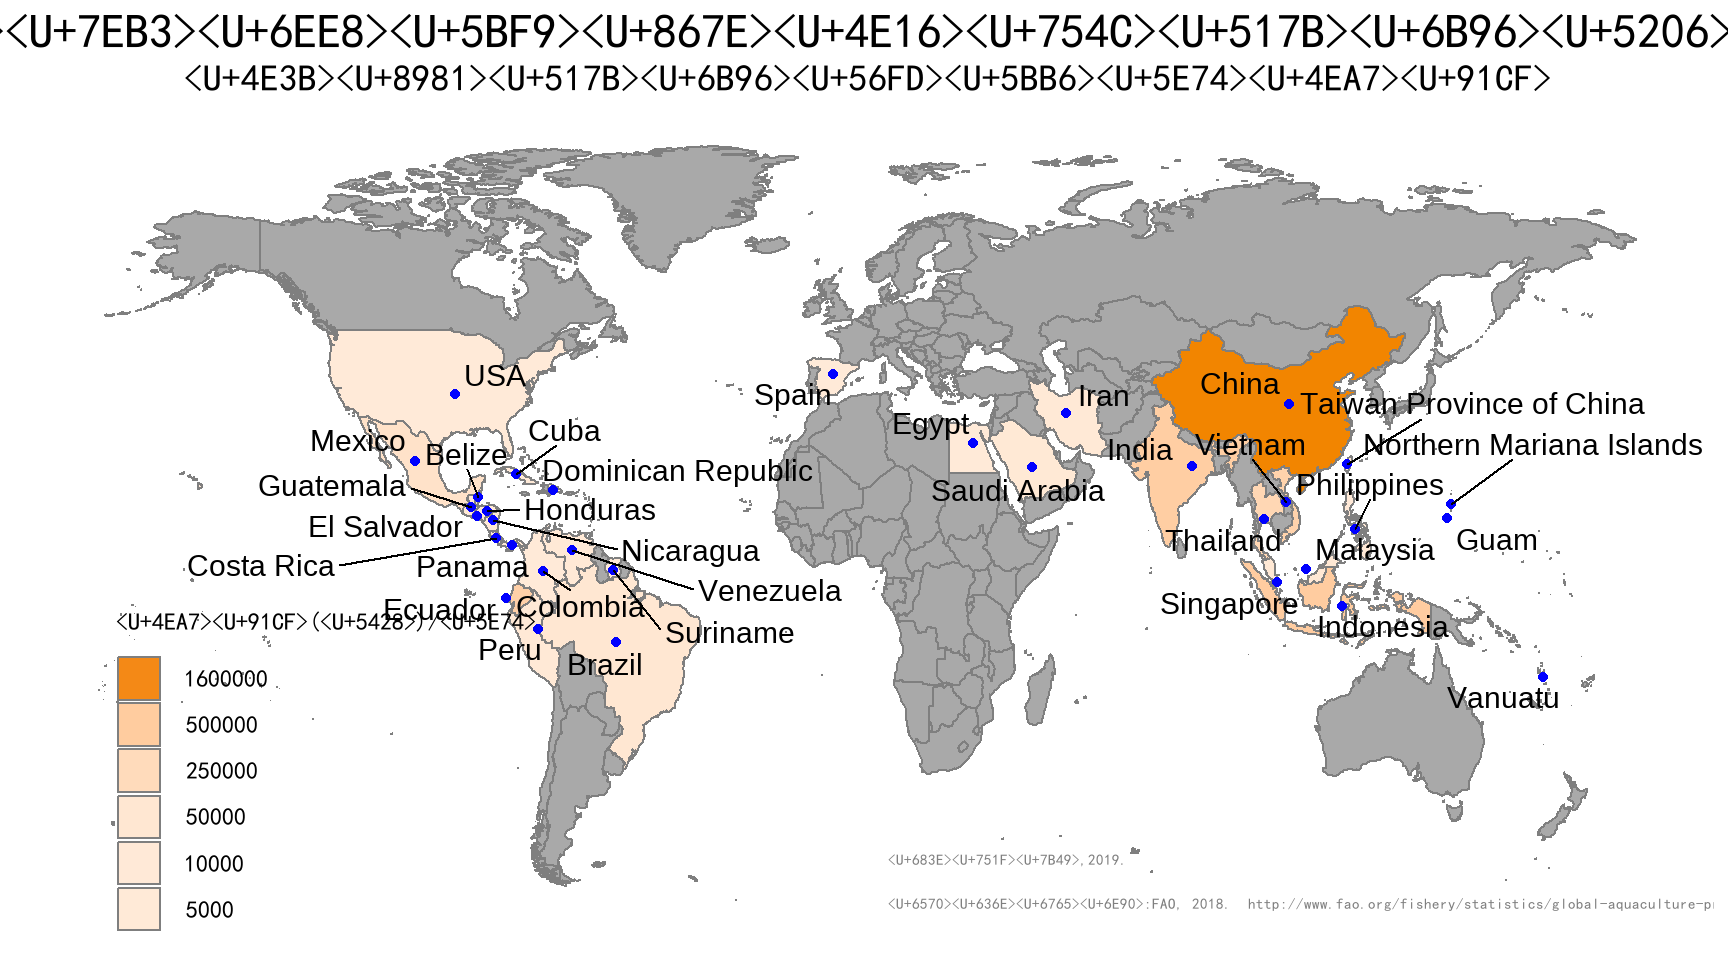
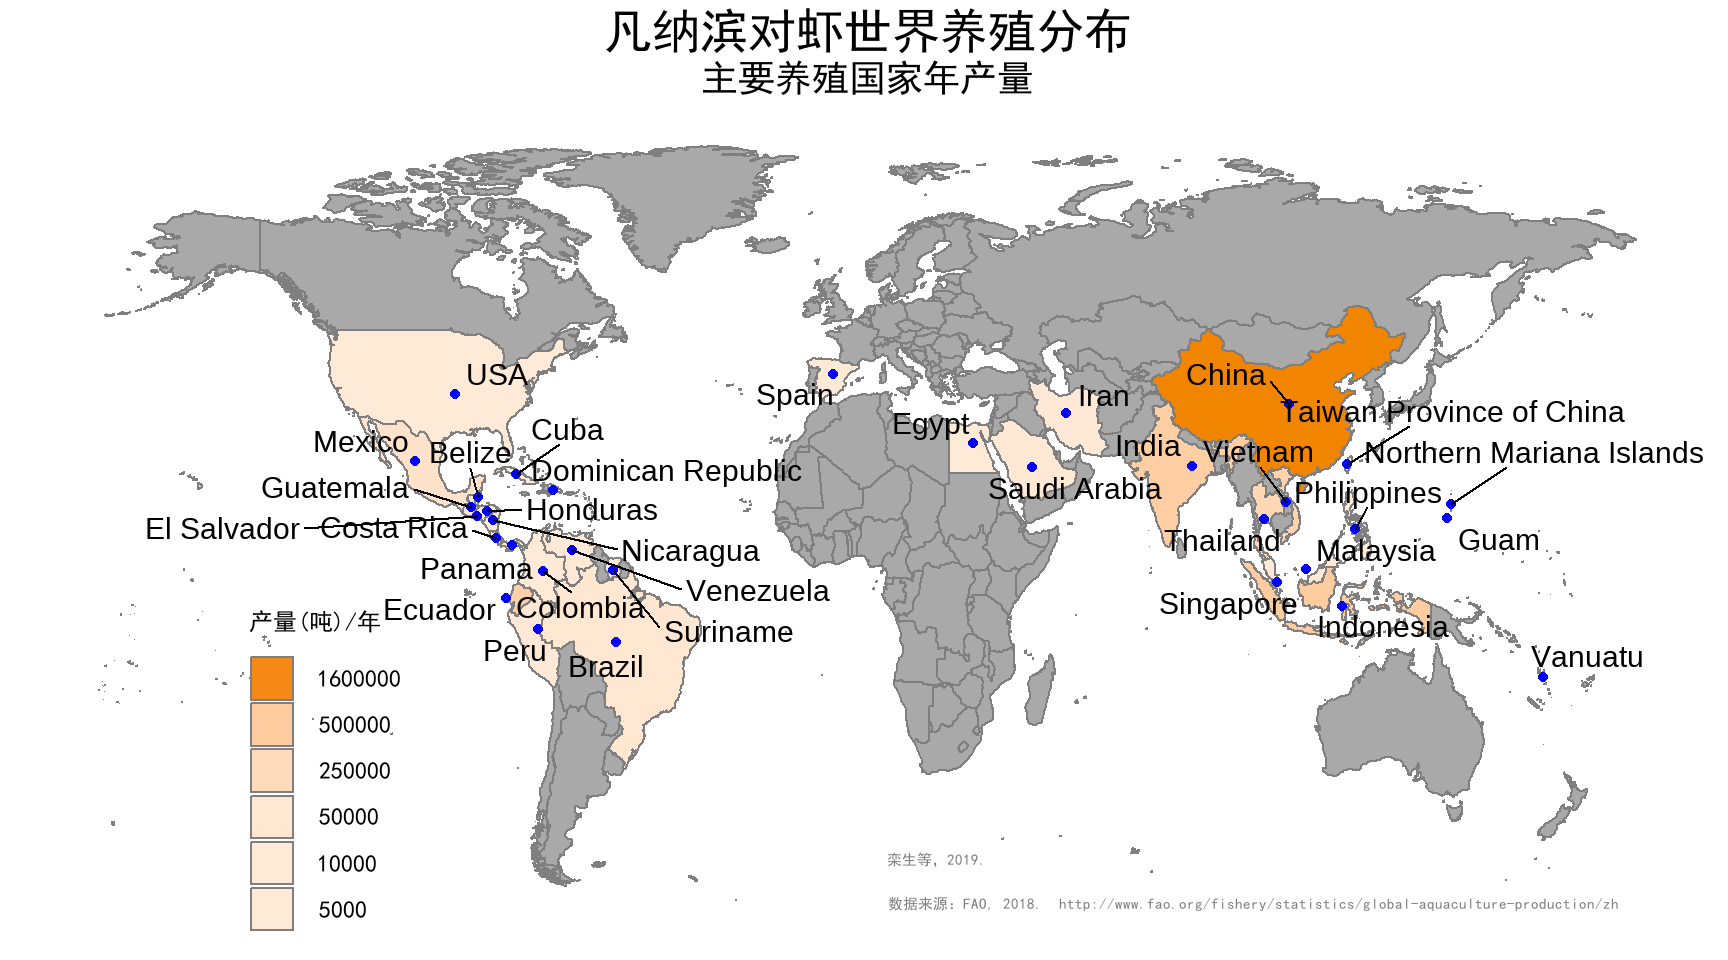
modifying the unicode problem of the figure's Chinese title.

diff --git a/content/post/2019-05-13-mapping-the-shrimp-production-on-the-world-map.html b/content/post/2019-05-13-mapping-the-shrimp-production-on-the-world-map.html
@@ -42,7 +42,7 @@ world_PNV_production_dt &lt;-
   world_aquaculture_production_dt[SPECIES %chin% species_3alpha_code]
 world_PNV_production_2016_dt &lt;-
   world_PNV_production_dt[YEAR == 2016]</code></pre>
-<p>凡纳滨对虾在海水、淡水和半咸水中都可以养殖，因此在统计世界各个国家产量时，需要累加在不同养殖环境下的产量。</p>
+<p>凡纳滨对虾在海水、淡水和半咸水中都可以养殖，因此在统计世界各个国家产量时，需要累加在不同养殖环境下的产量.</p>
 <p>由于在TS_FI_AQUACULTURE.csv文件中，国家列（COUNTRY）是用代码表示。因此需要从CL_FI_COUNTRY_GROUPS.csv文件中匹配UN_Code列查询国家名称等信息。其中Name_En和Name_Cn分别表示英文和中文国家名称。</p>
 <pre class="r"><code>#读取国家信息
 country_group_dt &lt;-
@@ -78,12 +78,12 @@ world_PNV_production_2016_country_info_dt[1:5]</code></pre>
 ## 3:               F    3600           NA         23        BZ       BLZ
 ## 4:                 6515824           NA         41        CN       CHN
 ## 5:                 6698018           NA         41        CN       CHN
-##    Name_En                                                  Name_Cn
-## 1: Bahamas                                 &lt;U+5DF4&gt;&lt;U+54C8&gt;&lt;U+9A6C&gt;
-## 2:  Brazil                                        &lt;U+5DF4&gt; &lt;U+897F&gt;
-## 3:  Belize                                 &lt;U+4F2F&gt;&lt;U+5229&gt;&lt;U+5179&gt;
-## 4:   China &lt;U+4E2D&gt;&lt;U+534E&gt;&lt;U+4EBA&gt;&lt;U+6C11&gt;&lt;U+5171&gt;&lt;U+548C&gt;&lt;U+56FD&gt;
-## 5:   China &lt;U+4E2D&gt;&lt;U+534E&gt;&lt;U+4EBA&gt;&lt;U+6C11&gt;&lt;U+5171&gt;&lt;U+548C&gt;&lt;U+56FD&gt;</code></pre>
+##    Name_En        Name_Cn
+## 1: Bahamas         巴哈马
+## 2:  Brazil          巴 西
+## 3:  Belize         伯利兹
+## 4:   China 中华人民共和国
+## 5:   China 中华人民共和国</code></pre>
 <pre class="r"><code># 累加每个国家的总产量，凡纳滨对虾可在不同环境下养殖，如海、淡水、半咸水等
 PNV_production_2016_per_country_dt &lt;-
   world_PNV_production_2016_country_info_dt[, .(Production = sum(QUANTITY)), keyby =
